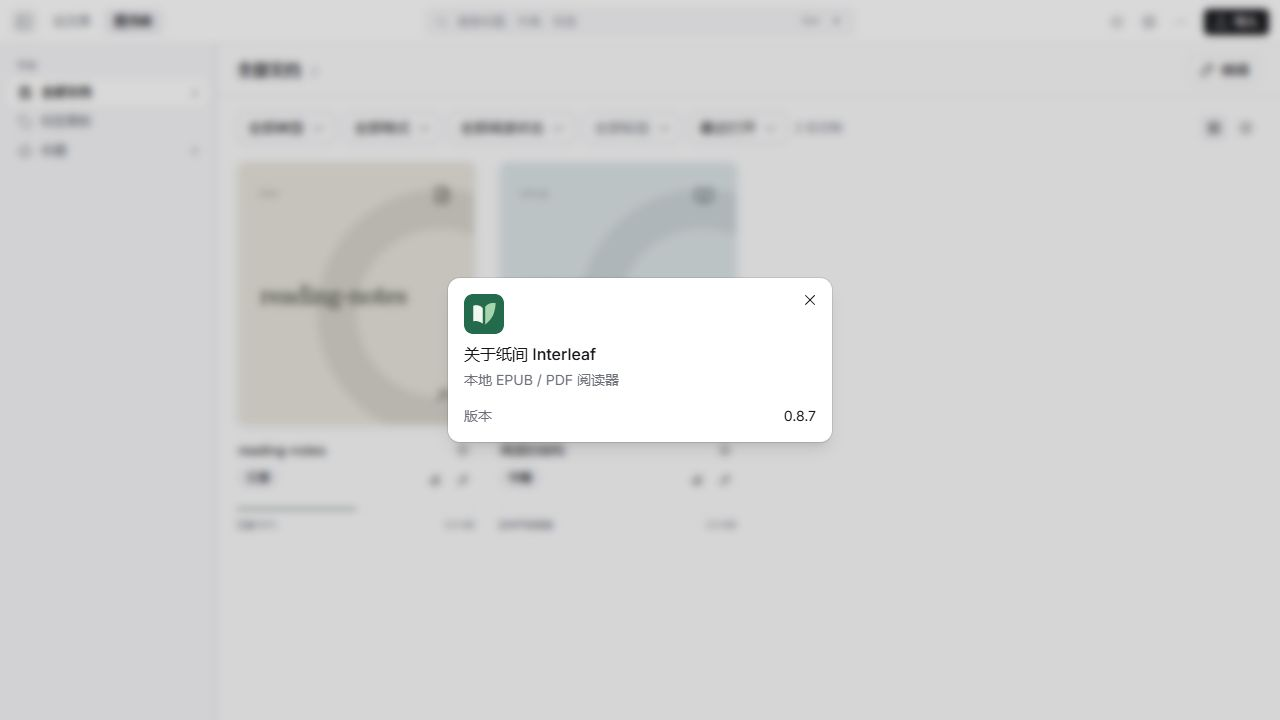
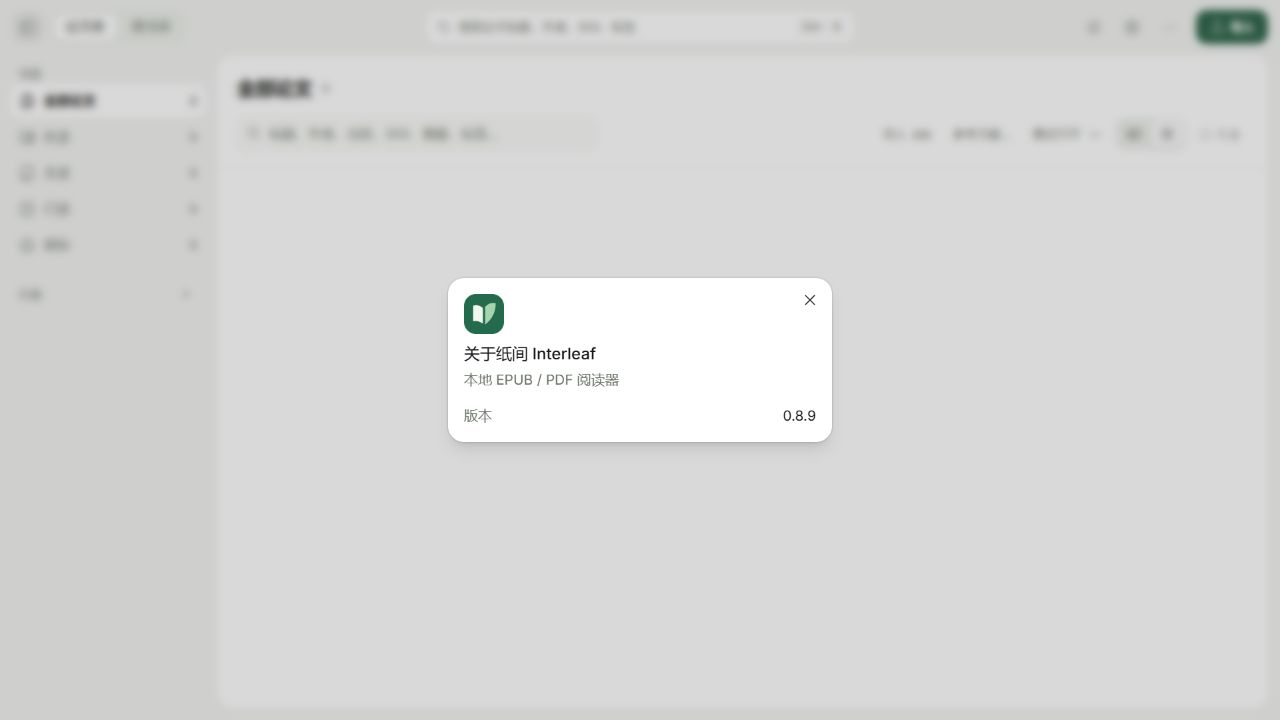
docs: 更新说明与界面截图

diff --git a/README.en.md b/README.en.md
@@ -9,25 +9,28 @@
 
 <picture>
   <source media="(prefers-color-scheme: dark)" srcset="website/assets/screenshots/interleaf-pdf-dark.jpg" />
-  <img src="website/assets/screenshots/interleaf-pdf-light.jpg" alt="Current Interleaf PDF reader with document outline and annotation panel" />
+  <img src="website/assets/screenshots/interleaf-pdf-light.jpg" alt="Updated Interleaf PDF reader with outline and chat sidebar, captured on 2026-11-05" />
 </picture>
 
 Interleaf keeps books and papers in separate libraries, with original files, notes, and reading history on your computer. Connect your own OpenAI- or Anthropic-compatible API for questions, translation, and research across your documents.
 
+> `main` includes the updated interface, session management, and optional selection translation. An installer containing these changes has not been released yet.
+
 ## Features
 
+- **Consistent interface:** rounded library, reader, import, and settings views; a sliding reading-mode switch and a chat toolbar embedded in the reading sidebar.
 - **Libraries for books and papers:** import EPUB/PDF, organize documents with categories, tags, reading states, and favorites; manage paper metadata, duplicates, related documents, and batch actions.
 - **Reading and annotations:** contents, text search, bookmarks, highlights, underlines, questions, notes, reading-position restoration, filtering, undo, and exports. Light, dark, and paper appearances are available.
-- **Bilingual reading:** original, side-by-side, and translated PDF views; chapter translation and linked source/translation reading for EPUB. Layout analysis runs locally; translation needs a configured API.
-- **AI reading and research:** quote passages in questions, follow answer sources back to the original, keep document conversations, and synthesize comparisons or research ideas across a category. Online research requires separate authorization.
+- **Bilingual reading:** original, side-by-side, and translated PDF views; chapter translation and linked source/translation reading for EPUB. Optional automatic selection translation displays results below the selection toolbar. Layout analysis runs locally; translation needs a configured API.
+- **AI reading and research:** attach text or images and type your own question, then follow answer sources back to the original. Submitted references clear from the composer. Create, switch, rename, and delete sessions per document, or research documents across a category. Online research requires separate authorization.
 - **Import and citations:** DOI, arXiv, URL, or title import; Zotero migration, a browser connector, and GB/T 7714, APA, BibTeX, and RIS exports.
 - **Desktop and terminal:** Electron desktop app, in-app updates, proxy settings, diagnostic exports, editable shortcuts, and the `interleaf` command for searching, reading, and importing library documents.
 
 The browser extension is not published to a store yet. Build `apps/connector`, enable developer mode in Chrome, and load its generated `dist/` directory.
 
-## Current screenshots
+## Screenshots
 
-Captured from the current app on **2026-10-31**, using the bundled original sample documents in a separate demonstration library. These images contain no personal conversations, API keys, or real provider endpoints. Light/dark variants follow GitHub's appearance.
+Captured from the current `main` on **2026-11-05**, using bundled original sample documents in a separate demonstration library, without personal library data or API configuration. Light/dark variants follow GitHub's appearance.
 
 ### Library
 
@@ -36,9 +39,21 @@ Captured from the current app on **2026-10-31**, using the bundled original samp
   <img src="website/assets/screenshots/interleaf-library-light.jpg" alt="Interleaf library with EPUB/PDF samples, filters, and reading records" />
 </picture>
 
+### Paper import
+
+<img src="website/assets/screenshots/interleaf-import.jpg" alt="Updated paper import dialog with links, local files, library migration, and BibTeX" />
+
 ### AI settings
 
-<img src="website/assets/screenshots/interleaf-ai-settings.jpg" alt="Current API settings with endpoint, protocol, and model roles" />
+<img src="website/assets/screenshots/interleaf-ai-settings.jpg" alt="Updated AI settings with built-in providers and API connection configuration" />
+
+### Reading settings
+
+<img src="website/assets/screenshots/interleaf-reading-settings.jpg" alt="Automatic selection translation in reading settings, off by default" />
+
+### Session management
+
+<img src="website/assets/screenshots/interleaf-sessions.jpg" alt="Session management with switching, renaming, and deleting document conversations" />
 
 ### Keyboard shortcuts
 
@@ -72,6 +87,8 @@ The first build downloads and verifies approximately 67 MB of local layout-model
 ## AI configuration and data
 
 Local reading, search, and annotations work without AI. In **Settings → AI**, enter your API endpoint, key, and protocol, then choose models for chat, translation, images, and research. The built-in Go runtime calls that service directly; no external Codex, Claude Code, or Kimi CLI installation or login is required.
+
+Automatic selection translation is off by default. Enable **自动划词翻译** in **Settings → Reading** or the selected-text **更多文字操作** menu. It uses your configured translation model.
 
 The key is stored by the local backend; the UI only reports whether one is configured. Model requests send the required passages, excerpts, images, and conversation context to your chosen service. Online research also queries public scholarly sources. Billing and data policies depend on the configured provider.
 

diff --git a/README.md b/README.md
@@ -9,25 +9,28 @@
 
 <picture>
   <source media="(prefers-color-scheme: dark)" srcset="website/assets/screenshots/interleaf-pdf-dark.jpg" />
-  <img src="website/assets/screenshots/interleaf-pdf-light.jpg" alt="当前版本纸间：PDF 阅读、章节目录与批注面板" />
+  <img src="website/assets/screenshots/interleaf-pdf-light.jpg" alt="新版纸间 PDF 阅读、章节目录与对话侧栏（2026-11-05 截图）" />
 </picture>
 
 纸间将图书与论文分开管理，让原文、笔记和阅读记录保存在自己的电脑上。需要 AI 时，可配置自己的 OpenAI 或 Anthropic 兼容 API，在阅读过程中提问、翻译或围绕资料开展研究。
 
+> `main` 已合并界面优化、会话管理与可选划词翻译，尚未发布包含这些改动的新安装包。
+
 ## 功能
 
+- **统一界面**：书库、阅读、导入和设置使用圆润的统一样式；阅读模式支持滑块切换，聊天工具栏嵌入阅读侧栏。
 - **图书与论文书库**：导入 EPUB / PDF，按分类、标签、阅读状态与星标整理文档；论文支持元数据补全、重复检测、关联文献和批量操作。
 - **阅读与批注**：目录与全文搜索、书签、高亮、下划线、问题和笔记；保存阅读位置，支持批注筛选、撤销与导出。界面提供浅色、深色和纸张外观。
-- **双语阅读**：PDF 原文、对照与译文视图；EPUB 按章翻译和原译文联动。PDF 版面解析在本地进行，翻译需要可用的 API 连接。
-- **AI 精读与主题研究**：引用原文提问，阅读可定位的回答来源；为文档维护独立会话，围绕分类中的资料生成综述、比较与研究想法。联网研究需单独授权。
+- **双语阅读**：PDF 原文、对照与译文视图；EPUB 按章翻译和原译文联动。可开启自动划词翻译，在选区菜单下方直接查看译文。PDF 版面解析在本地进行，翻译需要可用的 API 连接。
+- **AI 精读与主题研究**：引用文字或图片后自行输入问题，查看可定位的回答来源；输入框中的本次引用发送后自动清除。每篇文档支持新建、切换、重命名和删除会话，也可围绕分类中的资料开展研究。联网研究需单独授权。
 - **收录与引用**：从 DOI、arXiv、链接或标题导入，支持 Zotero 迁移、浏览器收录扩展，以及 GB/T 7714、APA、BibTeX、RIS 引用导出。
 - **桌面与命令行**：Electron 桌面应用、应用内更新、代理设置、诊断导出和自定义快捷键；`interleaf` 命令可检索、阅读和导入本机书库。
 
 浏览器收录扩展尚未上架。当前可构建 `apps/connector`，在 Chrome 扩展管理中开启开发者模式，加载生成的 `dist/` 目录。
 
-## 当前界面
+## 界面截图
 
-以下图片于 **2026-10-31** 从当前版本实际截取，使用独立演示书库中的项目自带示例文档。图片不包含个人聊天记录、API Key 或真实服务地址；浅色与深色图片会跟随 GitHub 外观切换。
+以下图片于 **2026-11-05** 从当前 `main` 实际截取，使用独立演示书库中的项目自带示例文档，未使用个人书库或 API 配置。浅色与深色图片会跟随 GitHub 外观切换。
 
 ### 书库
 
@@ -36,9 +39,21 @@
   <img src="website/assets/screenshots/interleaf-library-light.jpg" alt="纸间图书库：EPUB 与 PDF 示例、筛选与阅读记录" />
 </picture>
 
+### 导入论文
+
+<img src="website/assets/screenshots/interleaf-import.jpg" alt="新版论文导入窗口：链接与标识、本地文件、文献库迁移和 BibTeX" />
+
 ### AI 设置
 
-<img src="website/assets/screenshots/interleaf-ai-settings.jpg" alt="纸间当前 AI 设置：API 地址、协议与模型用途配置" />
+<img src="website/assets/screenshots/interleaf-ai-settings.jpg" alt="新版 AI 设置：内置服务商选项与 API 连接配置" />
+
+### 阅读设置
+
+<img src="website/assets/screenshots/interleaf-reading-settings.jpg" alt="阅读设置中的自动划词翻译开关，默认关闭" />
+
+### 会话管理
+
+<img src="website/assets/screenshots/interleaf-sessions.jpg" alt="会话管理窗口：切换、重命名和删除当前文档的会话" />
 
 ### 快捷键
 
@@ -72,6 +87,8 @@ pnpm desktop
 ## AI 配置与数据
 
 本地阅读、搜索和批注不依赖 AI。启用 AI 时，在 **设置 → AI** 中填写 API 地址、Key 和协议，分别选择问答、翻译、图片及研究模型。内置 Go 运行时直接调用配置的模型服务；不需要安装或登录 Codex、Claude Code、Kimi 等外部 AI CLI。
+
+自动划词翻译默认关闭，可在 **设置 → 阅读** 或选中文字后的 **更多文字操作 → 自动划词翻译** 中开启，使用已配置的翻译模型。
 
 API Key 由本机后端配置保存，界面只显示是否已配置。调用模型时，所需原文、选区、图片和会话上下文会发送给你配置的服务；联网研究还会查询公开学术来源。模型服务的费用与数据政策由对应服务决定。
 
